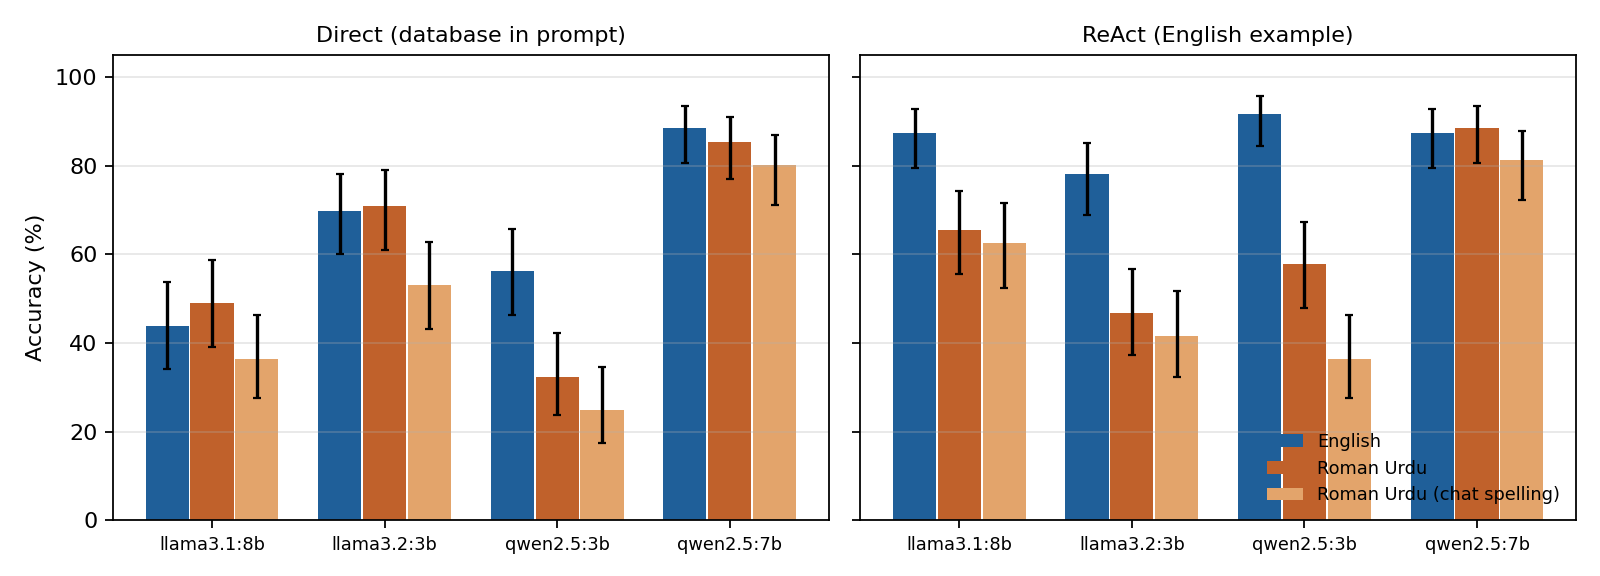
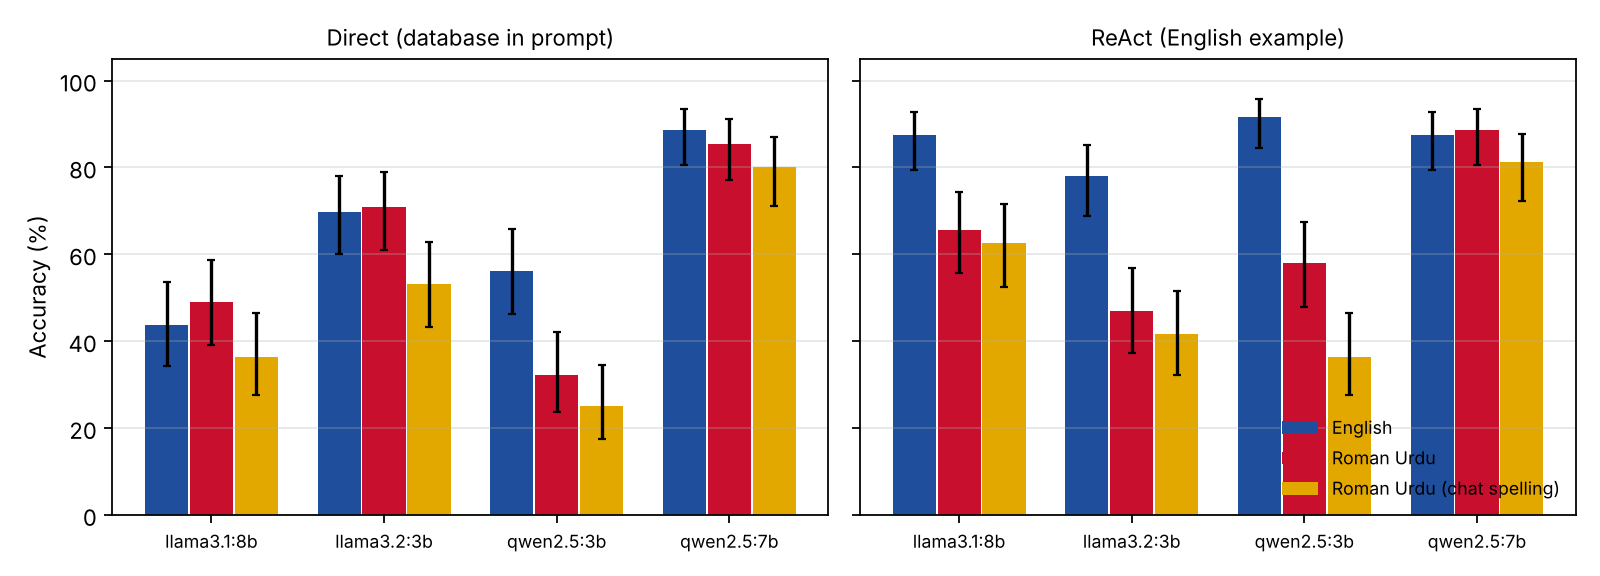
Use house colours in figures and report strict scores in the main table

diff --git a/paper/main.tex b/paper/main.tex
@@ -61,17 +61,18 @@ We ask four questions. (1) Do small local agents answer clinic questions less ac
 \begin{table}[t]
 \centering
 \small
-\begin{tabular}{lrrrr}
+\resizebox{\linewidth}{!}{%
+\begin{tabular}{lrrrrc}
 \toprule
-Model & English & Roman Urdu & Chat spelling & Roman Urdu $-$ English (95\% CI) \\
+Model & English & Roman Urdu & Chat spelling & Roman Urdu $-$ English (95\% CI) & Strict (EN / RU / chat) \\
 \midrule
-Qwen2.5 3B & 91.7 & 57.9 & 36.5 & $-34.7$ [$-44.2$, $-25.3$] \\
-Llama 3.2 3B & 78.1 & 46.9 & 41.7 & $-31.2$ [$-41.7$, $-19.8$] \\
-Llama 3.1 8B & 87.5 & 65.6 & 62.5 & $-21.9$ [$-32.3$, $-11.5$] \\
-Qwen2.5 7B & 87.5 & 88.5 & 81.2 & $+1.0$ [$-6.2$, $+7.3$] \\
+Qwen2.5 3B & 91.7 & 57.9 & 36.5 & $-34.7$ [$-44.2$, $-25.3$] & 91.7 / 57.9 / 36.5 \\
+Llama 3.2 3B & 78.1 & 46.9 & 41.7 & $-31.2$ [$-41.7$, $-19.8$] & 78.1 / 46.9 / 41.7 \\
+Llama 3.1 8B & 87.5 & 65.6 & 62.5 & $-21.9$ [$-32.3$, $-11.5$] & 87.5 / 64.6 / 62.5 \\
+Qwen2.5 7B & 87.5 & 88.5 & 81.2 & $+1.0$ [$-6.2$, $+7.3$] & 85.4 / 87.5 / 81.2 \\
 \bottomrule
-\end{tabular}
-\caption{ReAct with an English worked example: accuracy (\%) by form, and the paired difference in percentage points.}
+\end{tabular}}
+\caption{ReAct with an English worked example: lenient accuracy (\%) by form, the paired difference in percentage points, and strict accuracy (last number in the answer must match). Strict and lenient scores differ by at most 2.1 points here.}
 \label{tab:main}
 \end{table}
 

diff --git a/analysis.py b/analysis.py
@@ -134,7 +134,7 @@ def figures(acc: pd.DataFrame, tmpl: pd.DataFrame, out: Path) -> None:
     matplotlib.use("Agg")
     import matplotlib.pyplot as plt
 
-    colours = {"en": "#1f5f99", "ru": "#c0612b", "ru_var": "#e3a46b"}
+    colours = {"en": "#1F4E9C", "ru": "#C8102E", "ru_var": "#E3A800"}
     models = sorted(acc["model"].unique())
     fig, axes = plt.subplots(1, 2, figsize=(10, 3.6), sharey=True)
     for ax, method in zip(axes, ("direct", "react_en_shot")):
@@ -169,7 +169,7 @@ def figures(acc: pd.DataFrame, tmpl: pd.DataFrame, out: Path) -> None:
     piv = tmpl.assign(gap=tmpl["en"] - tmpl["ru"]).pivot_table(index="template", columns="model", values="gap")
     piv = piv.reindex([t for t in order if t in piv.index])
     fig, ax = plt.subplots(figsize=(1.6 + 1.3 * len(piv.columns), 4.2))
-    im = ax.imshow(100 * piv.to_numpy(dtype=float), cmap="RdBu_r", vmin=-100, vmax=100, aspect="auto")
+    im = ax.imshow(100 * piv.to_numpy(dtype=float), cmap=matplotlib.colors.LinearSegmentedColormap.from_list("house", ["#1F4E9C", "#FFFFFF", "#C8102E"]), vmin=-100, vmax=100, aspect="auto")
     ax.set_xticks(range(len(piv.columns)))
     ax.set_xticklabels(piv.columns, fontsize=8)
     ax.set_yticks(range(len(piv.index)))
